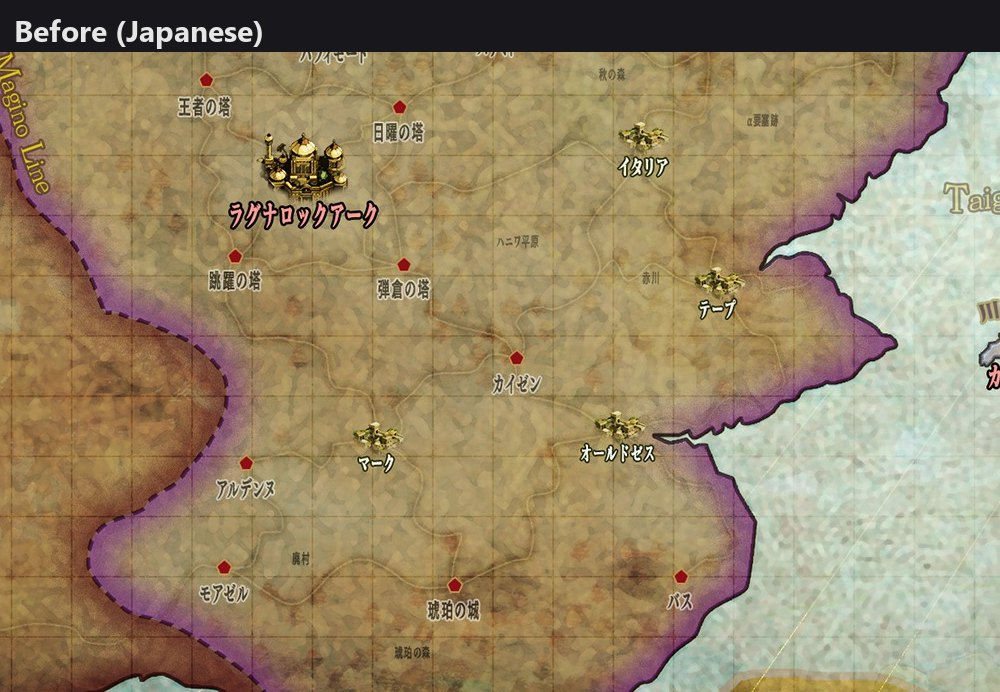
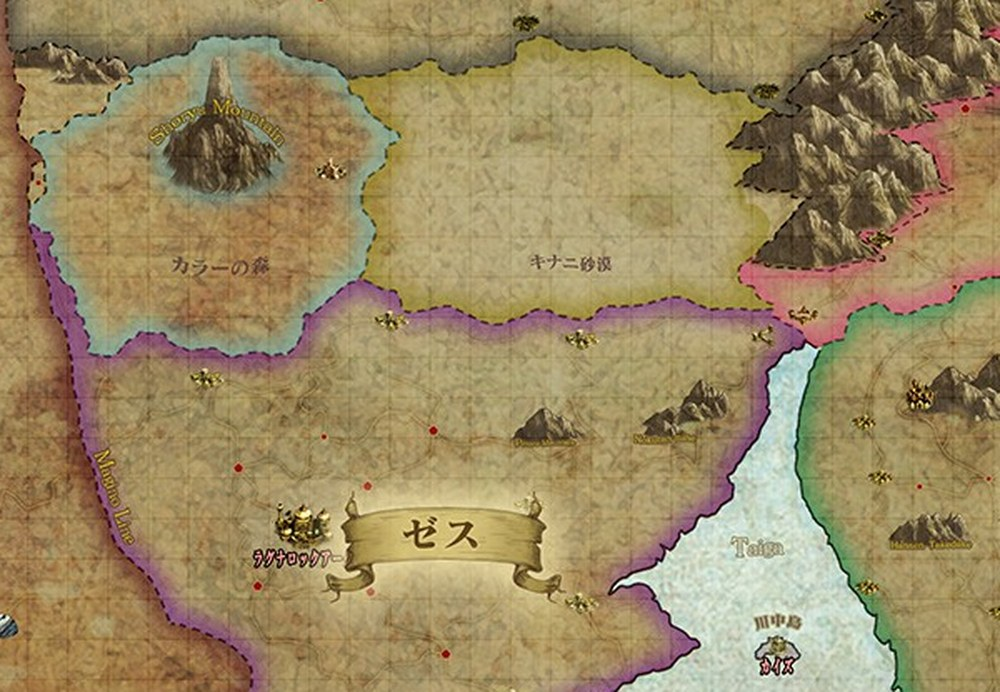
v2.0.1: fixes from play-testing v2.0.0, opening movie in English, installer patches the Movie folder; updated comparison images

diff --git a/README.md b/README.md
@@ -17,7 +17,7 @@ Japanese PC version 1.04.
 > Rance X is an adult (18+) game. This is a fan project, not affiliated with AliceSoft or MangaGamer. It contains no
 > game files: you need your own copy of the Japanese game. Please support the official release.
 
-**[Download v2.0.0](https://github.com/narwalstonesun/rance10-english/releases/download/v2.0.0/Rance10-English-Revision-v2.0.0.zip)**
+**[Download v2.0.1](https://github.com/narwalstonesun/rance10-english/releases/download/v2.0.1/Rance10-English-Revision-v2.0.1.zip)**
 · [Installation guide](#installation-guide) · [Dialogue comparisons](docs/COMPARISONS.md) ·
 [Image comparisons](docs/IMAGES.md) · [How it was made](docs/METHOD.md) · [Changelog](CHANGELOG.md) ·
 [Report a problem](../../issues/new/choose)
@@ -99,12 +99,13 @@ stuff I stumble across along the way.
 |---|---|
 | Story | All ~270,000 story lines translated from the Japanese: Prologue, Part 1, Part 2, After mode, character events, the Nunuhara memo text and Synopsis Mode. About 236,000 lines by Claude; about 33,500 lines (adult scenes Claude doesn't translate) by the uncensored/abliterated version of DeepSeek V4.1 Flash through Venice AI, with the same names, terms and character notes. |
 | Names and terms | Character names and terms follow the [AliceSoft Wiki](https://alicesoft.miraheze.org) and the official English releases ("Master Rance", "Monster Army", "Fiend"); game-system terms (EXP, Meal Ticket, Unit Bonus, Buff/Debuff, statuses) are the same in the story, the interface and the images. |
-| Images | Title logo and title-screen map; 69 story maps (world, regional, Monster Realm, campaign maps with name tags); 40 Nunuhara memos and their list thumbnails; 11 help screens; about 50 interface images (war-status maps, stamps, Unit Bonus / Unit Rank, EXP labels, collection tabs, ending credits); animated captions ("Meanwhile", war results, "Get!", phase titles). |
+| Images | Title logo and title-screen map; 69 story maps (world, regional, Monster Realm, campaign maps with name tags) and the strategy-screen maps (turn map, War Situation panels, war-status screen, quest maps); 40 Nunuhara memos and their list thumbnails; 11 help screens; about 50 interface images (war-status maps, stamps, Unit Bonus / Unit Rank, EXP labels, collection tabs, ending credits); animated captions ("Meanwhile", war results, battle end, "Get!", phase titles). |
 | Interface | About 1,400 interface and script strings (speaker names, choices, battle logs, dialogs, enemy hints), English number formatting (35,000 instead of 3万5千), status names, card names on item cards, a message font size that fits English. |
 | Data tables | CG gallery and music titles, place names, achievements, all 4,414 character profile lines. |
+| Movies | The typed narration of the Part 1 opening movie and its name cards / nation banners, re-lettered with the original motion. |
 
 **What stays in Japanese**: text painted into the scenery (shop signs, banners), as in the official English
-releases; comments inside saves made before installing. Text inside event CGs has not been checked.
+releases; comments inside saves made before installing; the ending movie (staff roll). Text inside event CGs has not been checked.
 
 ## Installation guide
 
@@ -121,14 +122,14 @@ update from AliceSoft: <https://www.alicesoft.com/support/rance10.html> (Japanes
 update program), then check `Version.txt` again.
 
 ### Step 3 - Download the patch
-Download [`Rance10-English-Revision-v2.0.0.zip`](https://github.com/narwalstonesun/rance10-english/releases/download/v2.0.0/Rance10-English-Revision-v2.0.0.zip)
+Download [`Rance10-English-Revision-v2.0.1.zip`](https://github.com/narwalstonesun/rance10-english/releases/download/v2.0.1/Rance10-English-Revision-v2.0.1.zip)
 (about 400 MB) from the [Releases](https://github.com/narwalstonesun/rance10-english/releases) page. Right-click the zip,
 choose **Extract All...**, and extract it anywhere (for example your Downloads folder). Don't run anything from
 inside the zip without extracting it first.
 
 ### Step 4 - Run the installer
 1. Close the game if it's running.
-2. Open the extracted `Rance10-English-Revision-v2.0.0` folder and double-click **`Install.bat`**.
+2. Open the extracted `Rance10-English-Revision-v2.0.1` folder and double-click **`Install.bat`**.
 3. Windows may show a security warning because the file came from the internet: click **More info → Run anyway**
    (or **Run**). When Windows asks whether to allow changes (administrator rights to write to Program Files), click
    **Yes**.

diff --git a/docs/COMPARISONS.md b/docs/COMPARISONS.md
@@ -63,10 +63,10 @@ before translating their scenes.
 | Speaker | Japanese | Previous fan patch (klesun MTL) | This patch |
 |---|---|---|---|
 | Rance | 「ちっ…… 馬鹿馬鹿しい、大使なんてヤメだ、ヤメ」 | "Tch..." "How ridiculous, I'm quitting this ambassador thing, quitting." | "Tch... Stupid. Forget being an ambassador, forget it." |
-| Kouhime | 「ええっ！？ そ、そんな――」 | "Eh!? N-No way-" | "What?! B-But that's--" |
+| Kouhime | 「ええっ！？ そ、そんな――」 | "Eh!? N-No way-" | "What?! B-But that's―" |
 | Rance | 「ふん、ダメダメ。 こいつら俺の言うことなんて聞きゃしねぇ」 | "Hmph, no good, no good. These guys won't listen to what I say." | "Nope, no good. These guys won't listen to a word I say." |
 | Rance | 「大体、大使だか外交官だが知らんが、 俺が皆に協力を呼びかける…… なんてのがはなから間違いなんだ」 | "Anyway, I don't care if I'm an ambassador or diplomat, calling everyone to cooperate- was a mistake from the start." | "Ambassador, diplomat, whatever, me calling on everyone to cooperate... that's wrong from the get-go." |
-| Rance | 「だから、その代わり――」 | "So instead- | "So instead--" |
+| Rance | 「だから、その代わり――」 | "So instead- | "So instead―" |
 | Rance | 「俺が世界のトップに立ってやる」 | I'll take the top position in the world." | "I'll take the top spot in the world." |
 | Magic | 「え……？」 | "Eh...?" | "Huh...?" |
 | Rance | 「この場にいる奴ら全員、 今日から俺様の部下になれ」 | "Everyone here, starting today, become my subordinates." | "Everyone in this room, as of today you work for me." |
@@ -115,7 +115,7 @@ replaced with a generic line.
 |---|---|---|---|
 | Rance | 「がははは、その通り。 俺がいなきゃただの棒きれだってこと忘れるな」 | "Gahahaha, that's right. Don't forget that without me, it's just a stick." | "Gahahaha, exactly. Don't forget, without me you're just a stick." |
 | Chaos | 「逆逆。 心の友だって儂がいなくちゃあ、 戦うことすら出来ないじゃないの」 | "No, no, the opposite. Even the heart's friend can't fight without me, you know." | "Wrong, wrong. Even you, my kindred spirit, without me can't even fight, can ya?" |
-| Rance | 「なんだと？ 俺様をお前みたいな――」 | "What did you say? How dare you talk to me like that-" | "What? Comparing me to the likes of you--" |
+| Rance | 「なんだと？ 俺様をお前みたいな――」 | "What did you say? How dare you talk to me like that-" | "What? Comparing me to the likes of you―" |
 | Cream | 「んっ、んんっ！ | "Nn, nn! | "Ahem! Ahem! |
 
 ## 7. Honorifics and forms of address
@@ -128,7 +128,7 @@ Japanese titles are translated the way the official English releases do it, inst
 |---|---|---|---|
 | Atago McCart | 「全員で2000人ほどいるらしいけど、 そのうちの一部をうちで面倒見るようにって……」 | "Apparently there are about 2000 in total, and we're supposed to look after part of them..." | "There are about 2,000 of them in all, and he told me to look after some of them here..." |
 | Atago McCart | 「うちは行き場のない人を 迎え入れる場所じゃないってのに……」 | "Our place isn't meant to be a refuge for people with nowhere to go... but here we are..." | "This place isn't a shelter for people with nowhere to go..." |
-| Tama | 「まー、いいんじゃないっすかね。 CITYも避難する人大勢いてすっかり 寂しくなってたところですし」 | "Well, I guess it's fine. There are a lot of evacuees in CITY, and it's become quite quiet too." | "Well, I don't think it's so bad. CITY's gotten all lonely with so many people evacuating, you know." |
+| Tama | 「まー、いいんじゃないっすかね。 CITYも避難する人大勢いてすっかり 寂しくなってたところですし」 | "Well, I guess it's fine. There are a lot of evacuees in CITY, and it's become quite quiet too." | "Well, I don't think it's so bad. Cidade's gotten all lonely with so many people evacuating, you know." |
 | Kalar | 「女将さん、宜しくお願いしまーす」 | "Okami-san, thank you in advance!" | "Ma'am, we're in your care!" |
 
 ## 8. Names and verbal tics

diff --git a/CHANGELOG.md b/CHANGELOG.md
@@ -1,5 +1,25 @@
 # Changelog
 
+## v2.0.1 - 2026-11-25
+Fixes from play-testing v2.0.0 (GitHub issues #1-#26), plus the first translated movie. Installs over v2.0.0 in place.
+- Opening movie (Part 1): the typed narration is in English, and the name cards / nation banners are re-lettered
+  with the original motion. The ending movie is still Japanese.
+- Place names: one spelling everywhere (maps, memos, story, data tables, interface), city names from the official
+  English releases ("Siberia" / "Icefields", "Razir", "Kaizu" and similar fixed).
+- Maps: place names on the strategy-screen maps (turn map, War Situation panels, war-status screen, quest maps) in
+  English; map labels redrawn on the shape of the original lettering, evenly sized, sharp; region banners re-fitted.
+- War-status screen: English date, commander names in English (also in older saves), the war report rewritten in
+  full sentences, the "Human Army" header no longer runs into the army name.
+- Battle: enemy and character names in attack pop-ups, the battle log and the HP bar in English; the battle-end,
+  war-report and several more animated captions translated; animated captions move per letter, without dark borders.
+- Quests: condition and reward lines, the favored affiliation, the prep quest header and "560,000"-style numbers fixed.
+- Character card profiles fit the box (smaller font, re-wrapped, half-width digits).
+- Text box: "--" shows as one long dash; the log viewer no longer cuts English lines off.
+- Fixed: some sound effects, images, sprites and quest-map voice lines that didn't play because the original machine
+  translation had translated the game's internal names for them.
+- Fixed a few titles that didn't match the character's gender ("King" / "Emperor" for women).
+- Installer: also patches the opening movies (Movie folder); Restore.bat puts those back too.
+
 ## v2.0.0 - 2026-11-25
 Complete translation. **No longer needs klesun's patch**: the installer works on the plain Japanese 1.04 game, and
 also upgrades klesun 1.04.20 or v1.0.0 / v1.1.0 of this patch in place.

diff --git a/docs/IMAGES.md b/docs/IMAGES.md
@@ -10,6 +10,7 @@ The Japanese original is always shown first. Click any image for full size. Ever
 - [Nunuhara memos](#nunuhara-memos)
 - [Help screens](#help-screens)
 - [Interface](#interface)
+- [Movies](#movies)
 - [What stays in Japanese](#what-stays-in-japanese)
 
 ## Title screen
@@ -69,6 +70,17 @@ This patch:
 
 ![Free Cities map, this patch](images/free_cities_map_after.jpg)
 
+The maps on the strategy screens (turn map, War Situation panels, war-status screen, quest maps) share the story maps'
+labels, with AliceSoft's own painted English re-lettered in its style. The turn map:
+
+Japanese original:
+
+![Turn map, Japanese original](images/turn_map_before.jpg)
+
+This patch:
+
+![Turn map, this patch](images/turn_map_after.jpg)
+
 ## Nunuhara memos
 
 The game has 40 memos (Nunuhara's notes on each army and faction), shown as full-screen images. All of them are
@@ -99,10 +111,15 @@ This patch:
 
 About 50 more interface images: war-status maps, occupied-country stamps, Unit Bonus / Unit Rank, Interrupt Chance,
 EXP labels, collection tabs, ending-credit names, the animated captions ("Meanwhile", war results, "Get!", phase
-titles), and the comma digit groups in numbers. Where the previous fan patch had already translated an image, it was
+titles, battle-end and war-report captions), and the comma digit groups in numbers. Where the previous fan patch had already translated an image, it was
 redone when the wording or the lettering didn't match the game. For example, the war-status header:
 
 ![War-status header: previous fan patch and this patch](images/war_status_header.jpg)
+
+## Movies
+
+The typed narration of the Part 1 opening movie is in English, and its name cards and nation banners are re-lettered
+with the original motion. Only the frames with text are re-encoded. The ending movie (staff roll) is still Japanese.
 
 ## What stays in Japanese
 
